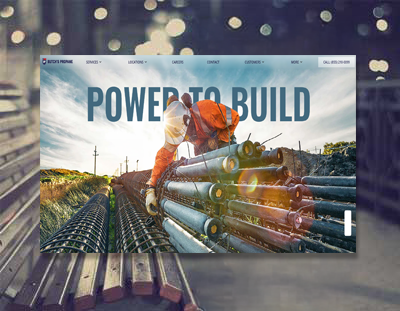
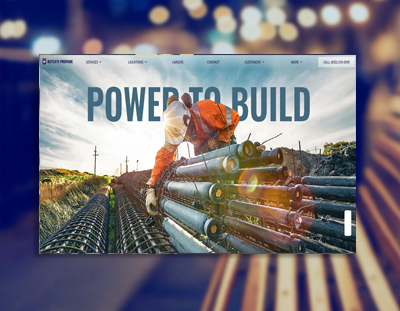
New Changes
Major changes

diff --git a/index.html b/index.html
@@ -125,7 +125,7 @@
         <!-- Portfolio Area -->
 
         <section id="portfolio" class="portfolio-area">
-            <!-- <div class="container">
+            <div class="container">
                 <h2 class="block_title">My Works</h2>
                 <div class="row port cs-style-3">
                     <div class="col-md-4 col-sm-6 col-xs-12 item-space">
@@ -282,7 +282,7 @@
                         <div class="btn-center"><a href="#" class="big button">More Coming Soon!</a></div>
                     </div>
                 </div>
-            </div> -->
+            </div>
             <!-- container -->
         </section><!-- portfolio -->
 
@@ -296,11 +296,11 @@
                     </div>
                     <div id="testimonial-container" class="col-xs-12">
                         <div class="testimonila-block">
-                            <!-- <img src="assets/images/testimonial.jpg" alt="clients" class="selfshot"> -->
-                            <p>Lorem ipsum dolor sit amet, consectetur adipisicing elit. Quidem sed mollitia illum! Molestiae dignissimos, hic dolorem et eius ut nobis. Corrupti totam amet aperiam aut voluptate nobis dolor at soluta.</p>
-                            <strong>Monir Hossain</strong>
+                            <img src="assets/images/testimonial.webp" alt="clients" class="selfshot">
+                            <p>"Working with Jason to build Daisystuftingshop.com was a joy. He brought my tufting vision to life with clarity, creativity, and care. He was responsive, patient, and truly understood how to translate my storytelling into a vibrant, user friendly site. I'm so grateful for his skill and support!"</p>
+                            <strong>Becky Zellner</strong>
                             <br>
-                            <small>C.E.O</small>
+                            <small>President & C.E.O</small>
                         </div>
                         <div class="testimonila-block">
                             <!-- <img src="assets/images/testimonial2.jpg" alt="clients" class="selfshot"> -->
@@ -370,8 +370,8 @@
                                 <li class="normal-txt">Find me on</li>
                                 <!-- <li class="social-icons"><a class="facebook" href="#"></a></li> -->
                                 <!-- <li class="social-icons"><a class="twitter" href="#"></a></li> -->
-                                <li class="social-icons"><a class="linkedin" href="#"></a></li>
-                                <li class="social-icons"><a class="indeed" href="#"></a></li>
+                                <li class="social-icons"><a class="linkedin" href="https://www.linkedin.com/in/jp-mcguire-890828137/" target="_blank"></a></li>
+                                <li class="social-icons"><a class="indeed" href="https://profile.indeed.com/p/jasonm-pdeihg6" target="_blank"></a></li>
                                 <!-- <li class="social-icons"><a class="google-plus" href="#"></a></li> -->
                                 <!-- <li class="social-icons"><a class="wordpress" href="#"></a></li> -->
                             </ul>

diff --git a/assets/css/style.css b/assets/css/style.css
@@ -390,7 +390,7 @@ header{
 /////////////////////////////////////////////////////////////////////*/
 
 #testimonial {
-    /* background: url(../images/wood.webp); */
+    background: url(../images/wood.webp);
 	background-color: #000;
     padding: 80px 0px 80px 0px;
     color: #fff;
@@ -631,7 +631,7 @@ footer {
 @media all and (max-width: 991px) {
 
 	header{
-		background: url(../images/bg-small.jpg) no-repeat;
+		background: url(../images/bg-small.webp) no-repeat;
 		background-size: cover;
 		background-attachment: fixed;
 		background-position: 50% -50px;
